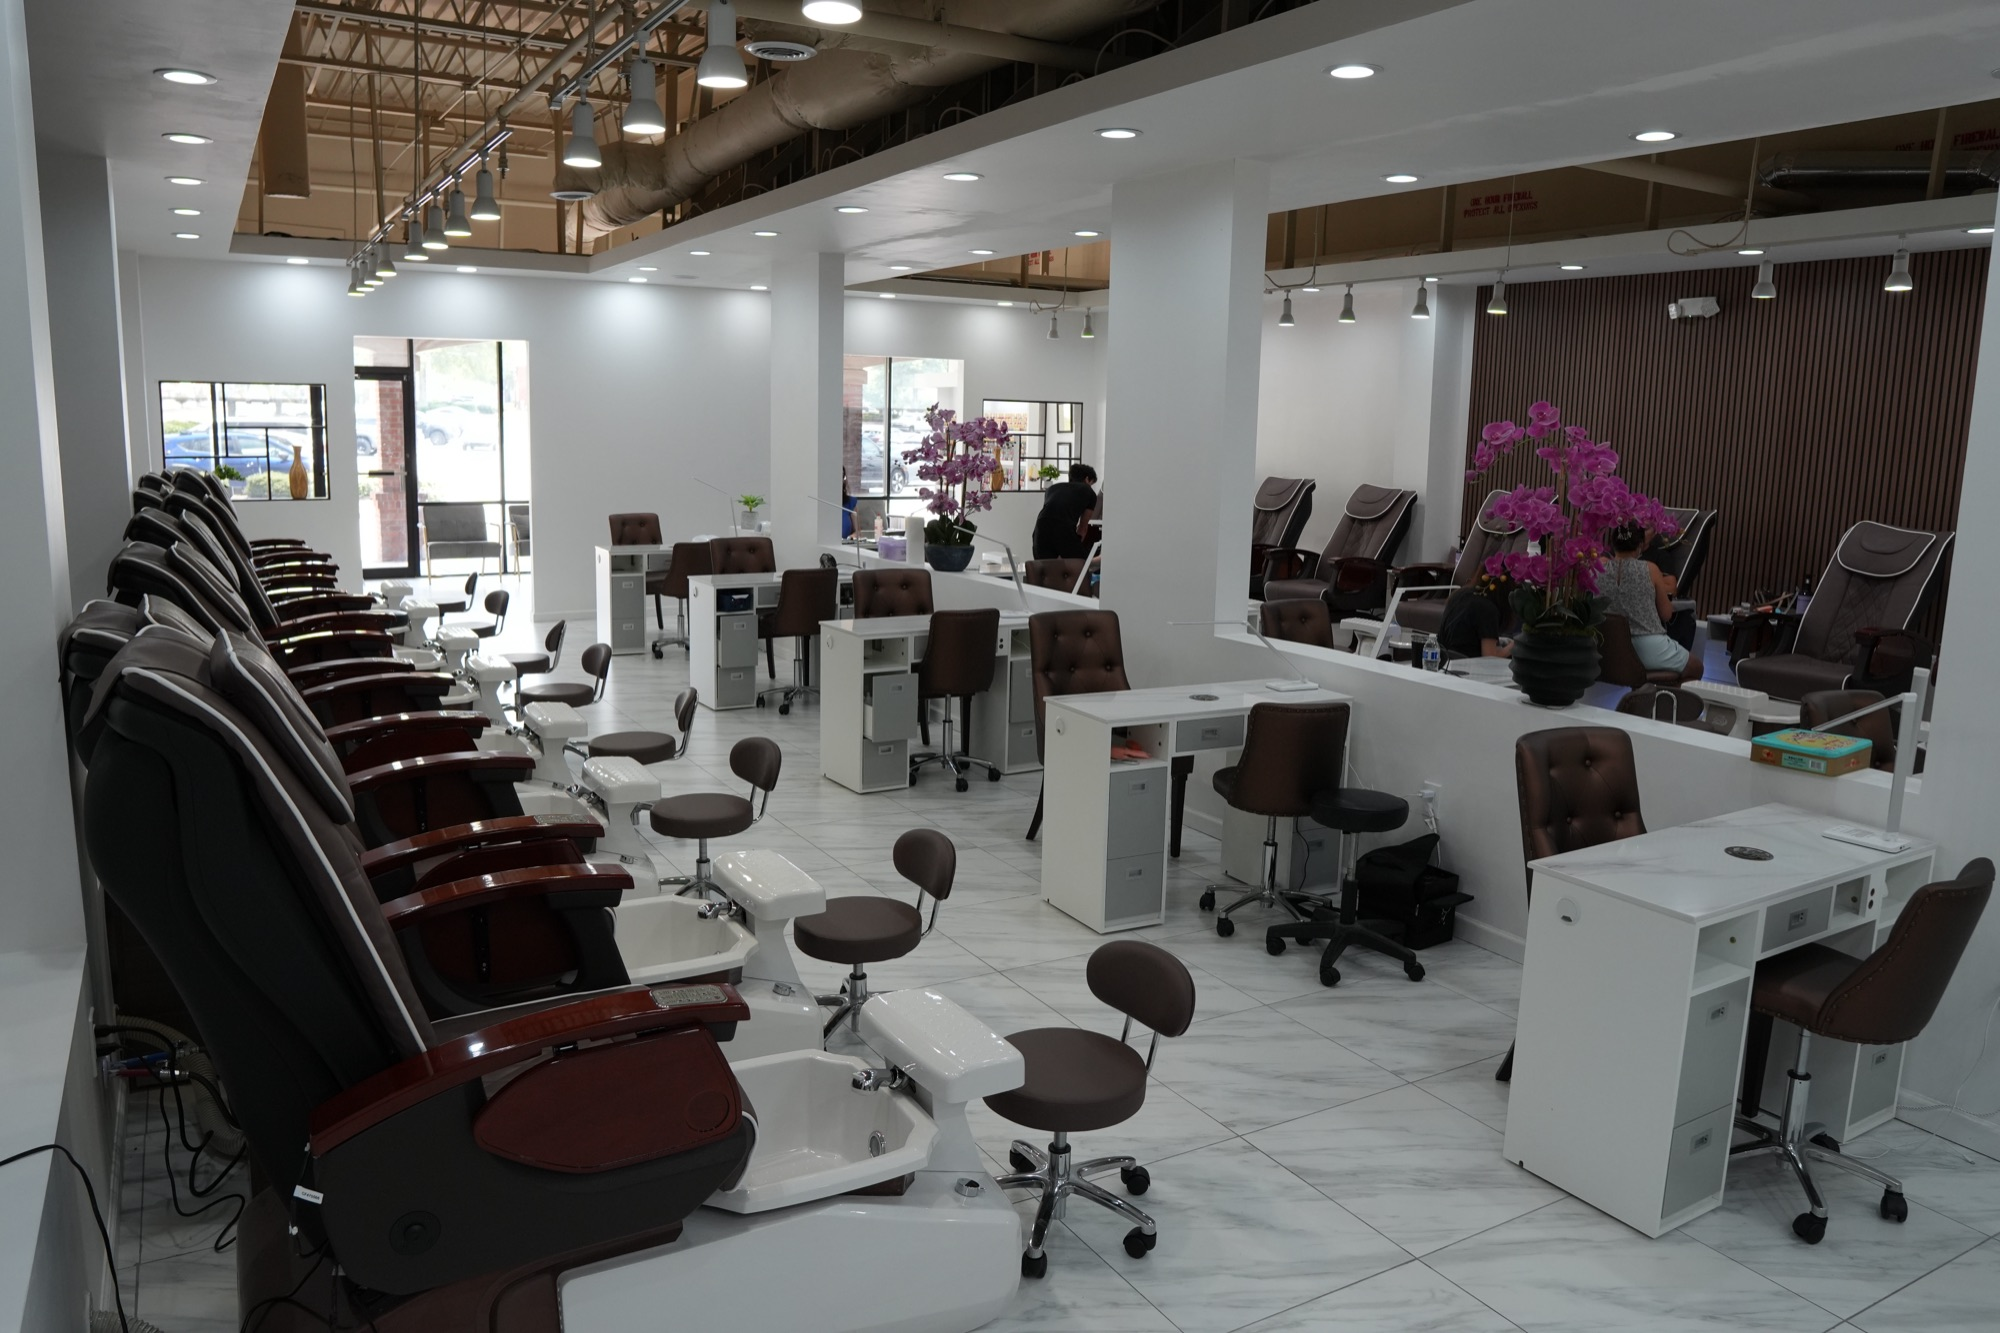
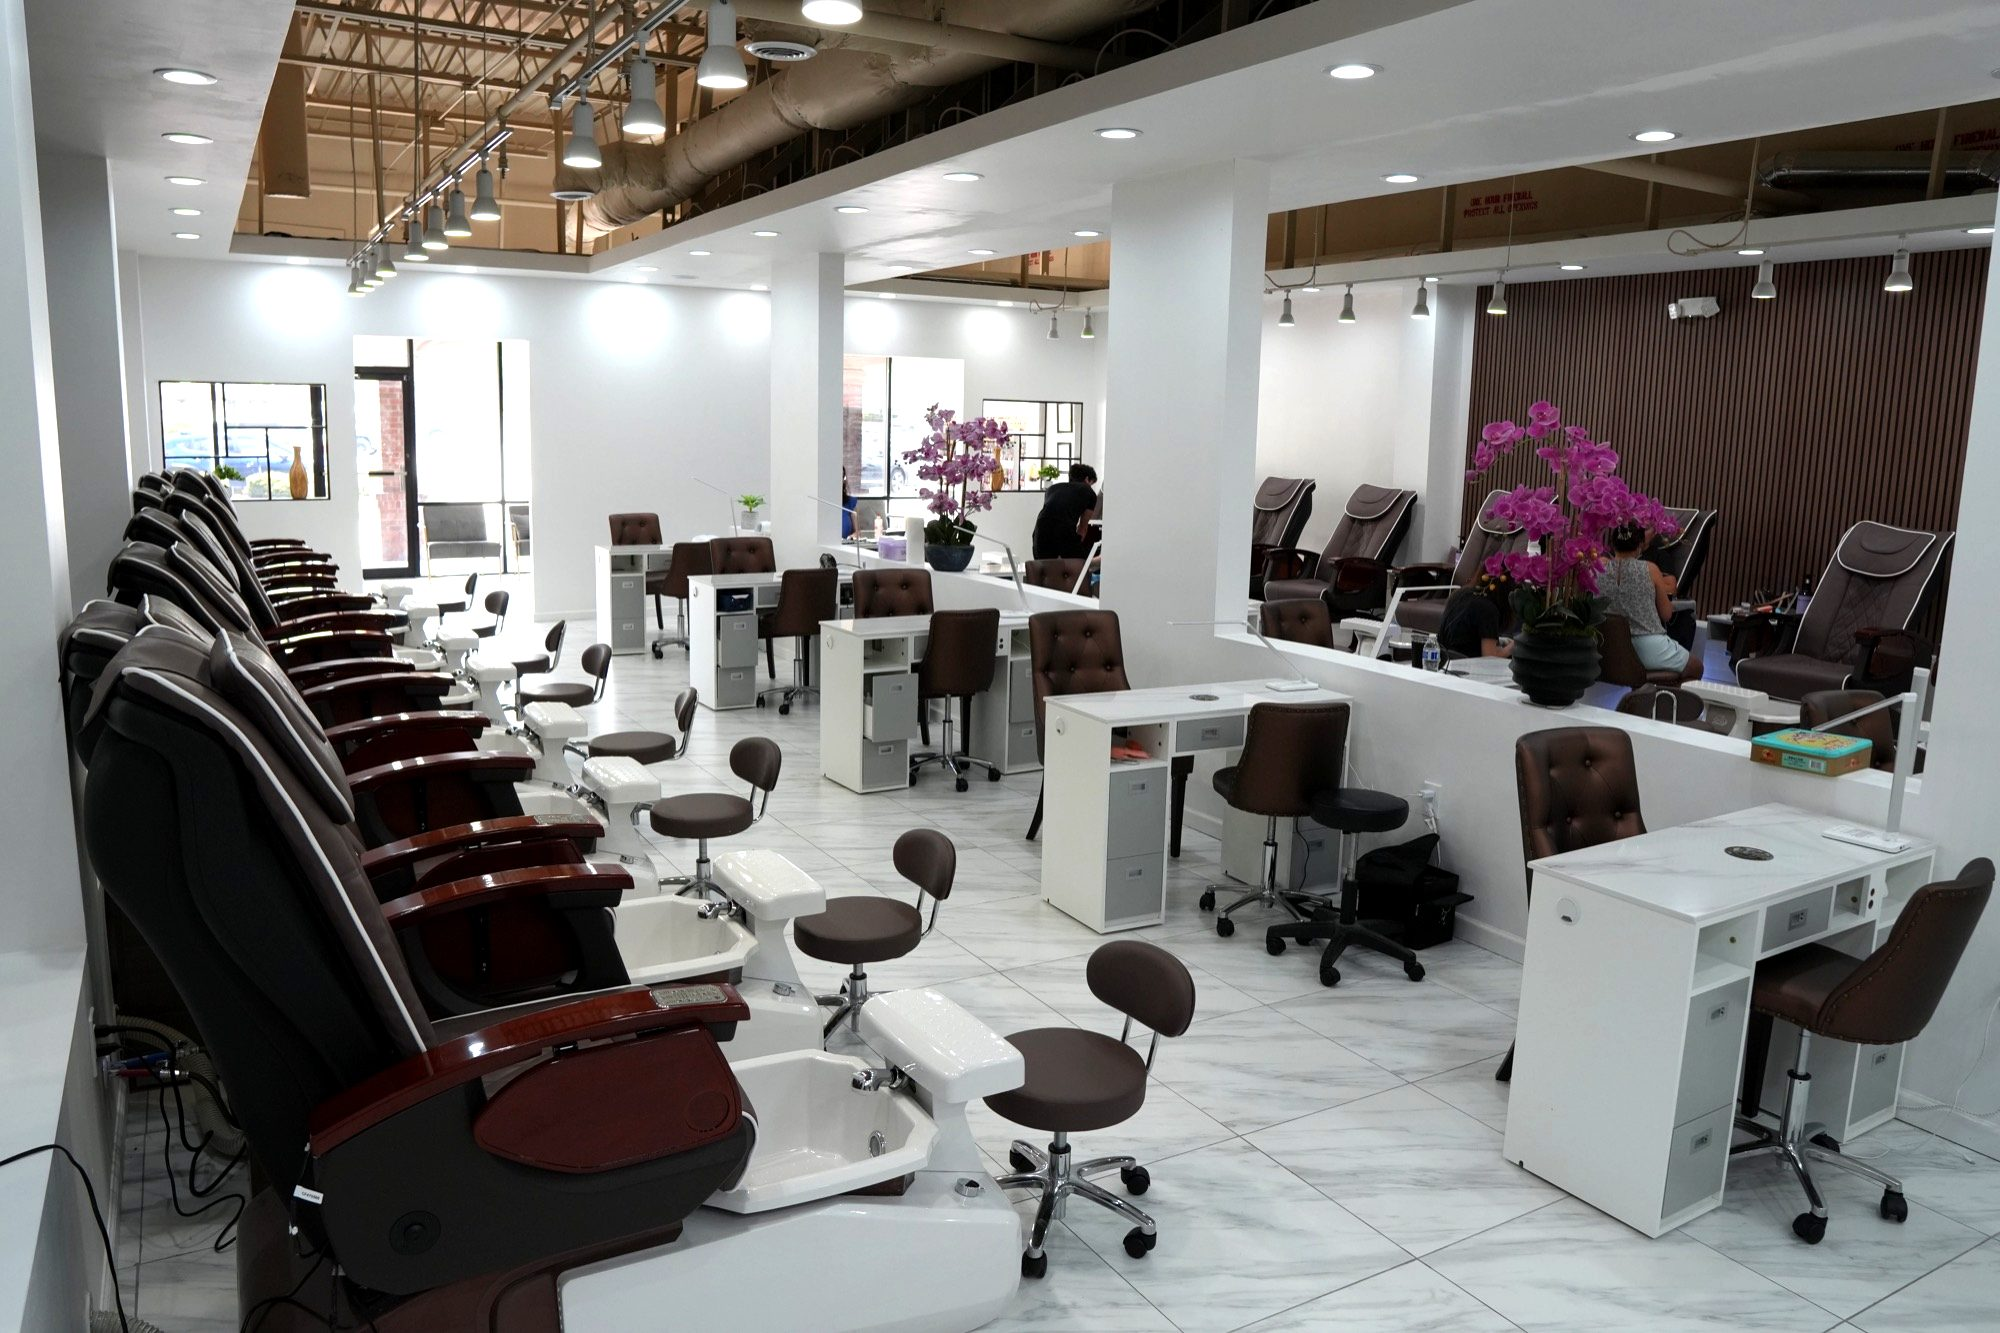
Lighten store photos, swap images, link Instagram, footer credit
- Store interior/reception photos brightened (+contrast) to fix the
  dim/washed-out look
- Our Philosophy photo swapped to care2
- Home "A Look Inside" now shows 4 distinct store photos only (no
  nail-work repeats)
- Third Featured Services image swapped
- Instagram handle on home page now links to the real profile
- Footer: added "Developed and designed by Solace" credit
- Gallery page: store photos moved to the end, nail work first

diff --git a/app/gallery/page.tsx b/app/gallery/page.tsx
@@ -13,17 +13,17 @@ export const metadata: Metadata = {
 const photos = [
   { label: "Nail Work Close-up", src: "/media/gallery-nail-1.jpg", aspect: "aspect-[3/4]" },
   { label: "Nail Work Close-up", src: "/media/gallery-nail-2.jpg", aspect: "aspect-[3/4]" },
-  { label: "Interior Salon Image", src: "/media/store-interior-1.jpg", aspect: "aspect-[3/2]" },
   { label: "Nail Work Close-up", src: "/media/gallery-nail-3.jpg", aspect: "aspect-[3/4]" },
   { label: "Nail Work Close-up", src: "/media/gallery-nail-4.jpg", aspect: "aspect-[4/5]" },
-  { label: "Interior Salon Image", src: "/media/store-interior-2.jpg", aspect: "aspect-[3/2]" },
   { label: "Nail Work Close-up", src: "/media/gallery-nail-5.jpg", aspect: "aspect-[2/3]" },
   { label: "Nail Work Close-up", src: "/media/gallery-nail-6.jpg", aspect: "aspect-[4/5]" },
-  { label: "Interior Salon Image", src: "/media/store-interior-3.jpg", aspect: "aspect-[3/2]" },
   { label: "Nail Work Close-up", src: "/media/gallery-nail-7.jpg", aspect: "aspect-[4/5]" },
   { label: "Nail Work Close-up", src: "/media/gallery-nail-8.jpg", aspect: "aspect-[4/5]" },
-  { label: "Interior Salon Image", src: "/media/store-interior-4.jpg", aspect: "aspect-[3/2]" },
   { label: "Nail Work Close-up", src: "/media/gallery-nail-9.jpg", aspect: "aspect-[3/5]" },
+  { label: "Interior Salon Image", src: "/media/store-interior-1.jpg", aspect: "aspect-[3/2]" },
+  { label: "Interior Salon Image", src: "/media/store-interior-2.jpg", aspect: "aspect-[3/2]" },
+  { label: "Interior Salon Image", src: "/media/store-interior-3.jpg", aspect: "aspect-[3/2]" },
+  { label: "Interior Salon Image", src: "/media/store-interior-4.jpg", aspect: "aspect-[3/2]" },
   { label: "Interior Salon Image", src: "/media/store-reception.jpg", aspect: "aspect-[3/2]" },
 ];
 

diff --git a/components/xpressnails/home/instagram-preview.tsx b/components/xpressnails/home/instagram-preview.tsx
@@ -1,5 +1,4 @@
 import { Container } from "@/components/ui/container";
-import { SectionHeading } from "@/components/ui/section-heading";
 import { ImagePlaceholder } from "@/components/ui/image-placeholder";
 import { FadeIn } from "@/components/ui/fade-in";
 
@@ -15,7 +14,19 @@ export function InstagramPreview() {
   return (
     <section className="bg-cream py-24 sm:py-32">
       <Container>
-        <SectionHeading eyebrow="Follow Along" title="@nailxpressmarietta" align="center" />
+        <FadeIn className="text-center">
+          <p className="eyebrow">Follow Along</p>
+          <h2 className="mt-4 font-sans text-4xl font-extralight leading-[1.1] tracking-tight text-charcoal sm:text-5xl">
+            <a
+              href="https://www.instagram.com/nailxpressmarietta/"
+              target="_blank"
+              rel="noopener noreferrer"
+              className="transition-colors hover:text-taupe-dark"
+            >
+              @nailxpressmarietta
+            </a>
+          </h2>
+        </FadeIn>
 
         <div className="mt-14 grid grid-cols-2 gap-4 sm:grid-cols-5">
           {posts.map((src, i) => (

diff --git a/components/xpressnails/home/gallery-preview.tsx b/components/xpressnails/home/gallery-preview.tsx
@@ -6,9 +6,9 @@ import { FadeIn } from "@/components/ui/fade-in";
 
 const items = [
   { label: "Interior Salon Image", src: "/media/store-interior-1.jpg", span: "sm:row-span-2" },
-  { label: "Nail Work Close-up", src: "/media/gallery-nail-4.jpg" },
-  { label: "Nail Work Close-up", src: "/media/gallery-nail-6.jpg" },
-  { label: "Nail Work Close-up", src: "/media/gallery-nail-8.jpg" },
+  { label: "Interior Salon Image", src: "/media/store-interior-2.jpg" },
+  { label: "Interior Salon Image", src: "/media/store-interior-3.jpg" },
+  { label: "Interior Salon Image", src: "/media/store-reception.jpg" },
 ];
 
 export function GalleryPreview() {

diff --git a/components/xpressnails/home/featured-services.tsx b/components/xpressnails/home/featured-services.tsx
@@ -7,7 +7,7 @@ import { FadeIn } from "@/components/ui/fade-in";
 const featured = [
   { name: "Gel Manicure", price: "$40", src: "/media/gallery-nail-3.jpg", href: "/services#manicures" },
   { name: "Royal Pedicure", price: "$55", src: "/media/gallery-nail-5.jpg", href: "/services#pedicures" },
-  { name: "Ombre Full Set", price: "$75", src: "/media/gallery-nail-9.jpg", href: "/services#acrylic" },
+  { name: "Ombre Full Set", price: "$75", src: "/media/gallery-nail-7.jpg", href: "/services#acrylic" },
 ];
 
 export function FeaturedServices() {

diff --git a/components/xpressnails/home/about.tsx b/components/xpressnails/home/about.tsx
@@ -11,7 +11,7 @@ export function About() {
           <ImagePlaceholder
             label="Interior Salon Image"
             sublabel="Wide shot of the studio, natural light preferred"
-            src="/media/home-about-interior.jpg"
+            src="/media/home-about-care2.jpg"
             alt="Nail technician caring for a client's hands at Nail Xpress"
             aspect="aspect-[4/5]"
             tone="stone"

diff --git a/components/xpressnails/footer.tsx b/components/xpressnails/footer.tsx
@@ -41,7 +41,7 @@ export function Footer() {
       </Container>
 
       <div className="border-t border-charcoal/10 py-6 text-center text-xs text-charcoal/40">
-        &copy; {new Date().getFullYear()} Nail Xpress. All rights reserved.
+        &copy; {new Date().getFullYear()} Nail Xpress. All rights reserved. Developed and designed by Solace.
       </div>
     </footer>
   );
